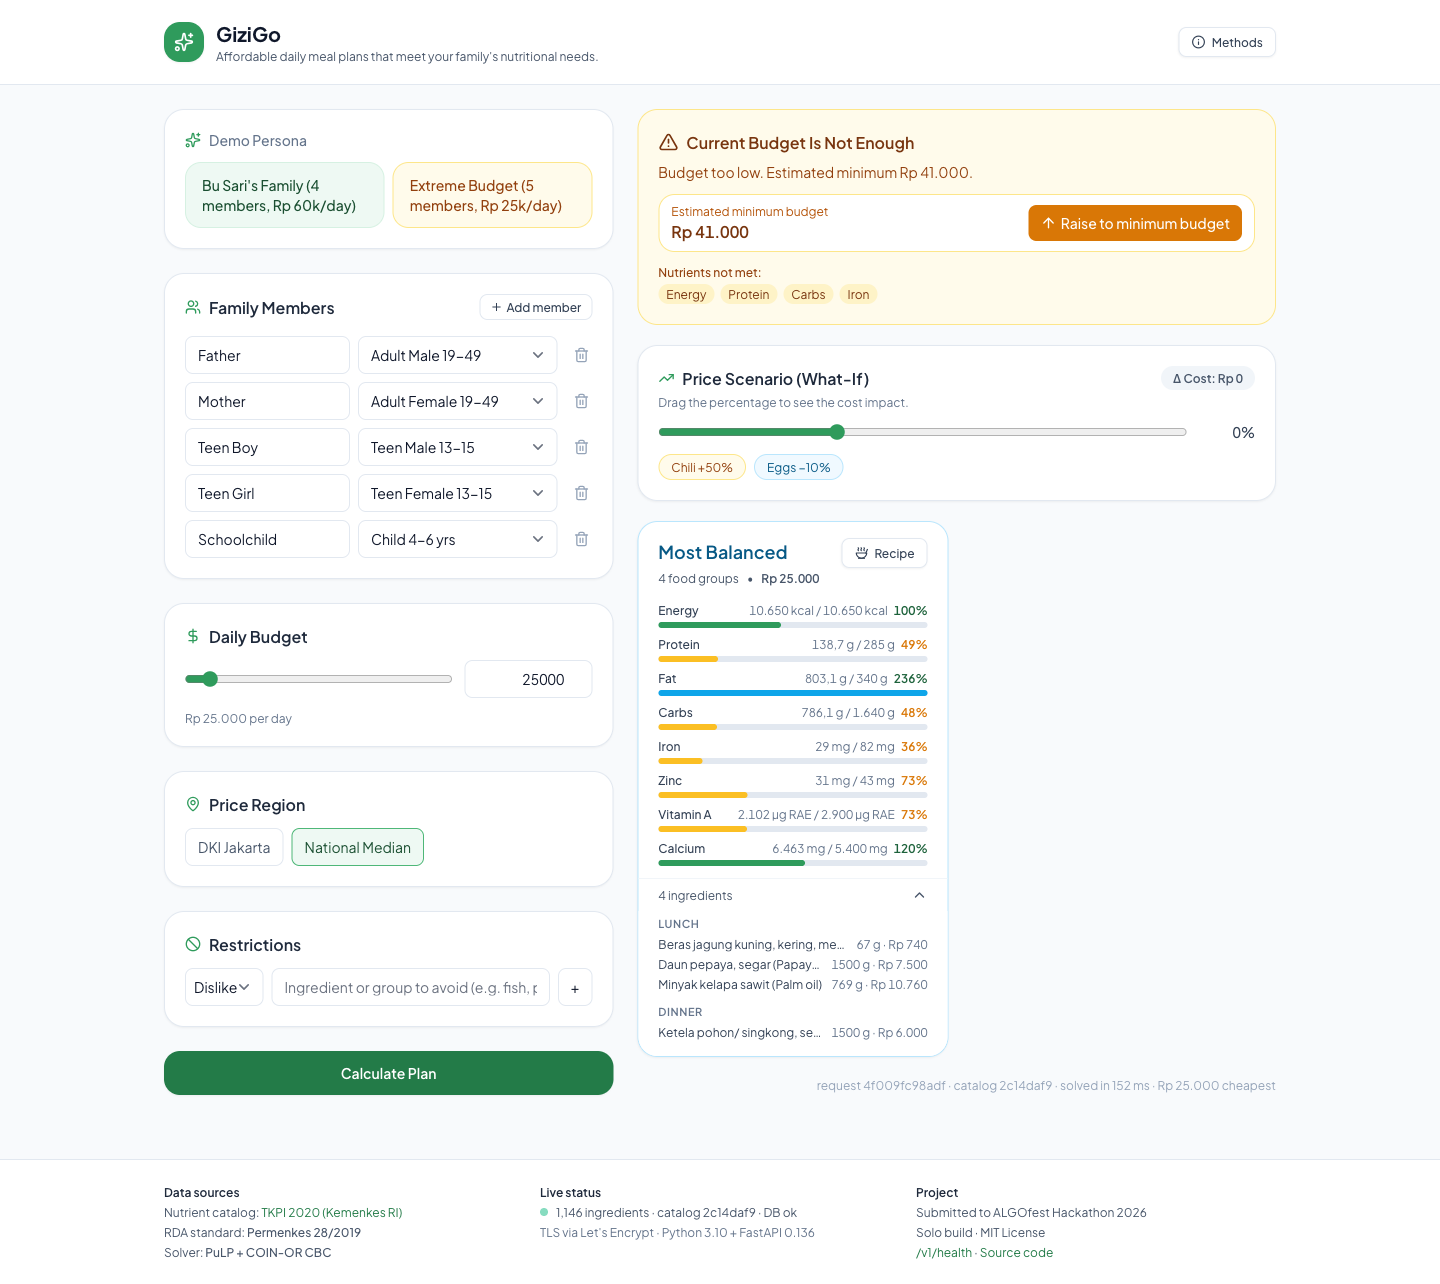
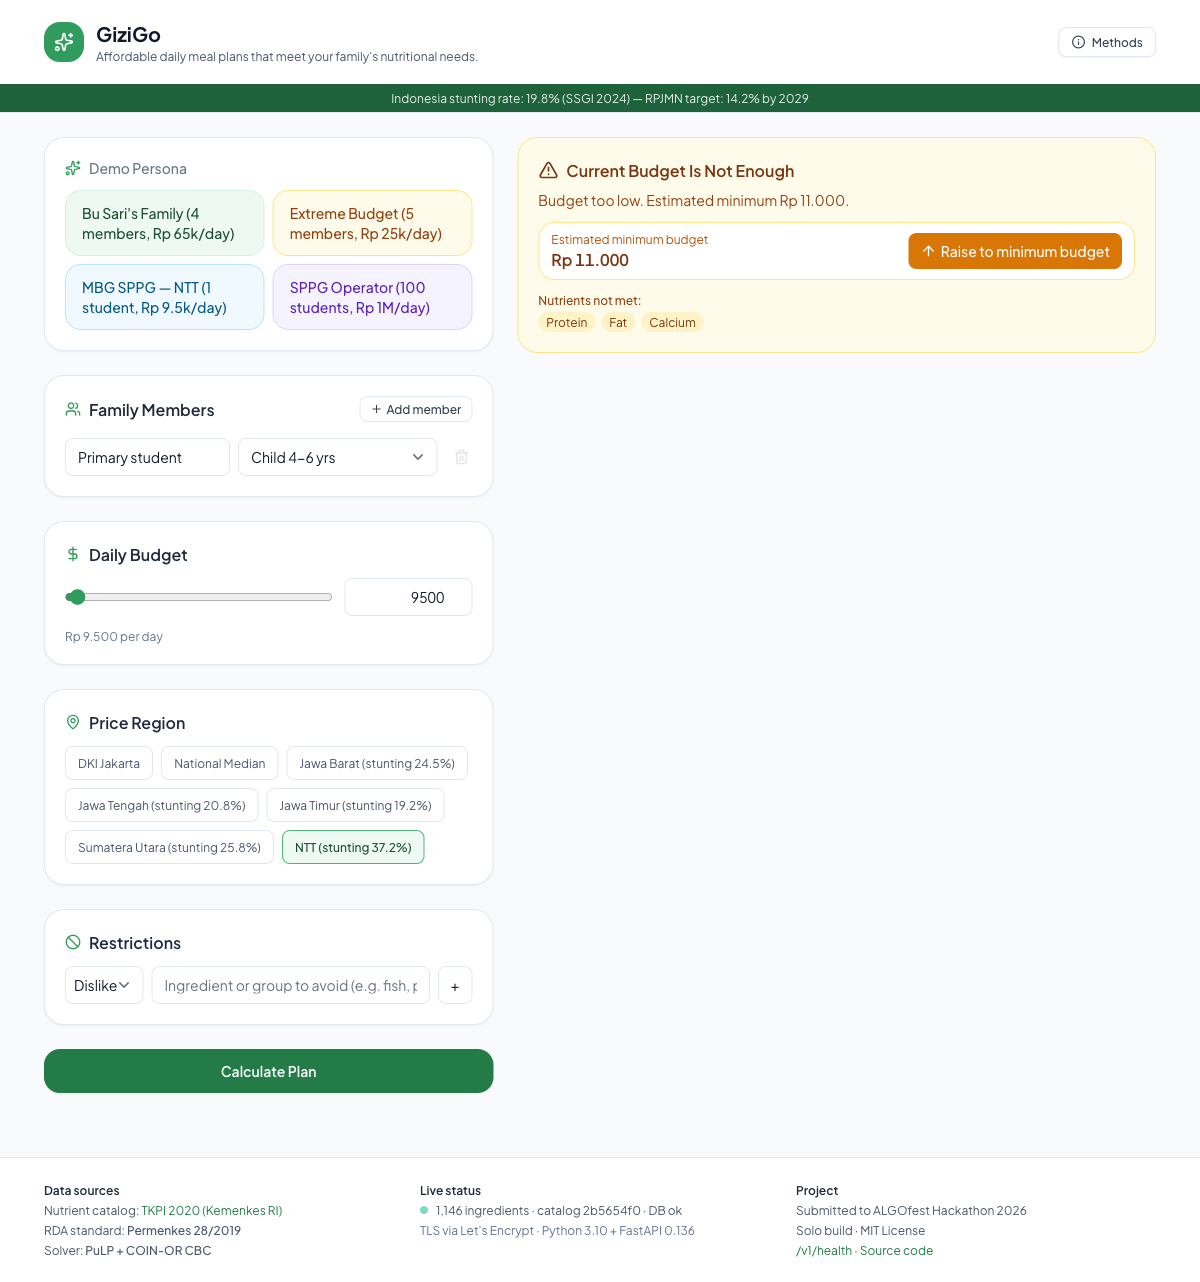
feat: MBG NTT infeasibility story + README/devpost/demo-script polish
1. MBG SPPG persona → NTT region, Rp 9,500/day
   - NTT: stunting 37.2%, prices ×1.18 vs national
   - At Rp 9,500 the LP is infeasible (min Rp 11,000)
   - Proves MBG Rp 10k envelope fails in Indonesia's highest-stunting province
   - Persona label updated: 'MBG SPPG — NTT (1 student, Rp 9.5k/day)'
   - Deep-link: /?persona=mbg_sppg

2. README.md major update:
   - 'Two demo personas' → 'Four demo personas' with full descriptions
   - MBG policy section rewritten: national vs NTT comparison table
   - Province inequality framing: 7 regions, stunting rates, price multipliers
   - Price shock presets documented (5 real-world scenarios)
   - SSGI 2024 numbers throughout (19.8%, target 14.2% by 2029)

3. docs/devpost-submission.md updated:
   - Elevator pitch reflects 4 personas, 7 provinces, 5 shock presets
   - MBG NTT infeasibility as the headline policy finding
   - SPPG Operator + CSV export mentioned

4. docs/demo-script.md rewritten (6 shots, 3 minutes):
   - Shot 1: stunting banner hook
   - Shot 2: Bu Sari 3 radar charts
   - Shot 3: price shock presets (Natal 2025 + El Niño)
   - Shot 4: MBG NTT infeasibility (the key policy moment)
   - Shot 5: SPPG Operator + CSV download
   - Shot 6: architecture close

5. docs/screenshots/03-infeasibility.png refreshed:
   - Shows stunting banner, NTT selected, min Rp 11,000, 4-persona grid

Live: https://gizigo.jmola.my.id/?persona=mbg_sppg

diff --git a/apps/web/src/data/personas.ts b/apps/web/src/data/personas.ts
@@ -32,8 +32,8 @@ export const PERSONAS: Record<PersonaId, OptimizeRequest> = {
     members: [
       { member_id: "m1", label: "Primary student", akg_category: "child_4_6" },
     ],
-    daily_budget_idr: 12000,
-    region: "national_baseline",
+    daily_budget_idr: 9500,
+    region: "nusa_tenggara_timur",
     restrictions: [],
     plan_types: ["cheapest", "balanced", "diverse"],
   },

diff --git a/apps/web/src/copy/id.ts b/apps/web/src/copy/id.ts
@@ -44,7 +44,7 @@ export const COPY = {
     options: {
       bu_sari: "Bu Sari's Family (4 members, Rp 65k/day)",
       anggaran_ekstrem: "Extreme Budget (5 members, Rp 25k/day)",
-      mbg_sppg: "MBG SPPG (1 student, Rp 12k/day)",
+      mbg_sppg: "MBG SPPG — NTT (1 student, Rp 9.5k/day)",
       sppg_operator: "SPPG Operator (100 students, Rp 1M/day)",
     },
   },

diff --git a/docs/demo-script.md b/docs/demo-script.md
@@ -1,8 +1,79 @@
-# Demo Script (≤ 3-minute video, captions-only)
+# Demo Script (3-minute video)
 
 Live URL: **https://gizigo.jmola.my.id**
-Code: **(repo URL — pasted into Devpost when public)**
+Code: **(repo URL)** — public on submission.
 
+Target: **2:30-3:00 minutes**. Aspect ratio: 1920×1080 H.264, ≤ 200 MB.
+
+---
+
+## Shot 1 — Hook (0:00 → 0:15)
+
+**On-screen**: Browser open to gizigo.jmola.my.id. Point to the dark green stunting banner.
+
+> "Indonesia's stunting rate is 19.8%. The government is spending Rp 71 trillion on free school meals. But is the budget actually enough? GiziGo answers that with a linear program — not a chatbot."
+
+---
+
+## Shot 2 — Bu Sari (feasible, 3 plans) (0:15 → 1:00)
+
+**Action**: Click **"Bu Sari's Family"** chip. Plans appear. Pan over the 3 radar charts.
+
+> "Bu Sari's family — 4 members, Rp 65k/day, DKI Jakarta. Three plans, three different objectives. Cheapest at Rp 60,534. Most Balanced at Rp 65,000 — the radar chart is rounder, iron overshoot pulled from 221% down to 185%. Most Varied at Rp 63,560 — 11 food groups, 14 ingredients. Three solvers, three optima, all in 52 milliseconds."
+
+---
+
+## Shot 3 — Price shock (1:00 → 1:30)
+
+**Action**: Click **"Chili +120% (Natal 2025)"** preset. Then **"Rice +15% (El Niño)"**.
+
+> "What happens when chili hits Rp 90k/kg — the actual price in December 2025? The LP re-solves in real time. Not a linear extrapolation — an actual new optimum. Now add a rice shock from El Niño. The system tells you exactly how much more you need to spend."
+
+---
+
+## Shot 4 — MBG NTT (infeasible) (1:30 → 2:15)
+
+**Action**: Click **"MBG SPPG — NTT"** chip. InfeasibilityPanel renders. Point to "NTT (stunting 37.2%)" region button. Click **"Raise to minimum budget"**.
+
+> "One student, Rp 9,500/day, Nusa Tenggara Timur — Indonesia's province with 37.2% stunting and prices 18% above the national median. The LP is infeasible. Minimum feasible budget: Rp 11,000 — above the MBG envelope of Rp 10k. The optimizer proves what the public debate has been asking: the budget is not enough in NTT. One tap raises to the minimum and the plans appear."
+
+---
+
+## Shot 5 — SPPG Operator + CSV (2:15 → 2:45)
+
+**Action**: Click **"SPPG Operator"** chip. Plans appear. Click the CSV download button.
+
+> "Switch to the SPPG operator view — 100 students, Rp 1 million/day. Cheapest plan: Rp 9,872 per student. Click download — a procurement CSV with ingredient IDs, grams, and costs, ready to paste into any procurement system. This is what BGN's 5,000 SPPG kitchens need."
+
+---
+
+## Shot 6 — Close (2:45 → 3:00)
+
+**On-screen**: Architecture diagram or code repo.
+
+> "Built solo in 36 hours. FastAPI, PuLP, CBC, React, live at gizigo.jmola.my.id. 1,146 ingredients from TKPI 2020, 14 AKG categories from Permenkes 28/2019, 7 provinces. The math is in the README. Thank you."
+
+---
+
+## Recording checklist
+
+- [ ] OBS at 1920×1080, 30 fps, H.264
+- [ ] Browser zoomed to 110%, bookmarks bar hidden, clean profile
+- [ ] DevTools closed, cursor visible with click highlight
+- [ ] Voiceover recorded separately (Audacity), mixed in post
+
+## Render
+
+```bash
+ffmpeg -i raw.mkv -c:v libx264 -preset slow -crf 22 -c:a aac -b:a 192k \
+       -movflags +faststart gizigo-demo.mp4
+```
+
+Target: **40-80 MB**. Upload to YouTube as **Unlisted**. Paste URL into Devpost.
+
+## Last-resort fallback
+
+If recording goes sideways, the code-side ship is still complete: live URL, README with screenshots, all docs. A static submission with no video will still hit *Innovation & Creativity*; the video boosts *Presentation and Documentation*.
 Target: 1920×1080 H.264, ≤ 200 MB, captions-only (no voiceover), runs muted on Devpost preview.
 
 ---

diff --git a/README.md b/README.md
@@ -67,37 +67,41 @@ A full mathematical formulation lives in [`docs/ilp-formulation.md`](docs/ilp-fo
 | **Best Social Impact** | Targets a 19.8% national stunting rate; UI in English with three demo personas anchored in real Indonesian household and program-operator profiles |
 | **Top 3 Grand** | Operations-research depth (ILP + sensitivity + bisection) plus a polished, end-to-end live deployment with concrete policy relevance to a Rp 71-trillion national program |
 
-## Two demo personas + one policy use-case
+## Four demo personas
 
-1. **Bu Sari's Family** — father (19-49), Bu Sari (lactating mother), child 5 yrs, toddler. Rp 60,000/day, region DKI Jakarta. Optimizer returns ~Rp 35,000 across 5+ food groups, all eight AKG nutrients ≥ 100 %.
-2. **Extreme Budget** — 5-member household, region National Median, Rp 25,000/day. Optimizer returns *infeasible*, surfaces the minimum estimated budget at Rp 41,000-63,000 (depending on persona shape), and lists the deficit nutrients (energy, protein, vitamin A, calcium).
-3. **MBG SPPG** — one primary-school student, Rp 12,000/day, region National Median. Models the per-portion budget of *Makan Bergizi Gratis* (Free Nutritious Meals), Indonesia's flagship Rp 71-trillion school-meal program launched January 2025 under Perpres 83/2024.
+1. **Bu Sari's Family** — father (19-49), Bu Sari (lactating mother), child 5 yrs, toddler. Rp 65,000/day, DKI Jakarta. Three differentiated plans: cheapest Rp 60,534 / balanced Rp 65,000 / diverse Rp 63,560 (11 food groups, 12 ingredients). All 9 AKG nutrients ≥ 100%.
+2. **Extreme Budget** — 5-member household, National Median, Rp 25,000/day. Infeasible — minimum Rp 68,000, deficits: energy, protein, vitamin A, calcium.
+3. **MBG SPPG — NTT** — one primary-school student, Rp 9,500/day, **Nusa Tenggara Timur** (stunting 37.2%, prices 18% above national median due to logistics). **Infeasible** — minimum Rp 11,000. This is the key policy finding: the Rp 10k MBG envelope is *not sufficient* in Indonesia's highest-stunting province.
+4. **SPPG Operator** — one representative student, Rp 1,000,000/day (= Rp 10k × 100 portions). Models a BGN SPPG kitchen procuring for 100 students. Cheapest plan Rp 9,872/student — Rp 128 headroom from the Rp 10k envelope.
 
-All three personas are baked into the UI as one-click chips so the judge can reproduce them in 2 seconds. They also have **deep-link URLs** that auto-load and auto-calculate:
+All four personas are one-click chips with **deep-link URLs** that auto-load and auto-calculate:
 
 - https://gizigo.jmola.my.id/?persona=bu_sari
 - https://gizigo.jmola.my.id/?persona=anggaran_ekstrem
 - https://gizigo.jmola.my.id/?persona=mbg_sppg
+- https://gizigo.jmola.my.id/?persona=sppg_operator
 
-## Policy implication: Makan Bergizi Gratis (MBG)
+## Policy implication: Makan Bergizi Gratis (MBG) + Province Inequality
 
-The MBG program targets ~82.9 million beneficiaries by 2029 with a per-portion budget reported in the press at **Rp 10,000-15,000**. Public debate has questioned whether that envelope is sufficient to meet a child's daily nutritional needs.
+The MBG program (Perpres 83/2024, Rp 71T budget) targets ~82.9 million beneficiaries by 2029 with a per-portion budget of **Rp 10,000-15,000**. Public debate has questioned whether that envelope is sufficient.
 
-GiziGo answers that question quantitatively. For a single primary-school child (`child_4_6` AKG category) using national-median prices, the optimizer reports:
+GiziGo answers this with two lenses:
 
-| Plan | Cost | Food groups | Notes |
+**National median**: At Rp 9,872/student, the cheapest AKG-compliant plan leaves only Rp 128-3,000 headroom from the Rp 10-12k envelope. Feasible — but barely.
+
+**NTT (stunting 37.2%, prices ×1.18)**: At Rp 9,500/student, the LP is **infeasible**. Minimum feasible budget: Rp 11,000. The MBG envelope of Rp 10k is not sufficient in Indonesia's highest-stunting province. The optimizer surfaces exactly which nutrients are short and by how much.
+
+**Price shock sensitivity**: Click "Chili +120% (Natal 2025)" — the actual peak price recorded in December 2025 (Rp 80-90k/kg). The LP re-solves in 100ms and shows the new cost. Click "Rice +15% (El Niño)" to model a drought scenario. These are not linear extrapolations — they are actual re-optimisations.
+
+**7 regions available**: DKI Jakarta, National Median, Jawa Barat (24.5%), Jawa Tengah (20.8%), Jawa Timur (19.2%), Sumatera Utara (25.8%), NTT (37.2%). Each region has its own price table reflecting logistics and distribution costs. The stunting rate is shown on each region button so the user understands the context.
+
+| Plan | Cost (NTT) | Cost (National) | Δ |
 |---|---|---|---|
-| Cheapest | **Rp 9,472** | 5 | Pure cost LP. AKG met, iron 200%+ from concentration on cheap protein |
-| Most Balanced | **Rp 10,827** | 5 | Penalises nutrient over-shoot beyond 130% RDA — flatter achievement profile |
-| Most Varied | **Rp 9,945** | **6** | MIP that maximises distinct food groups within +5% cost headroom |
+| Cheapest | Infeasible at Rp 9.5k | Rp 9,872 | — |
+| Most Balanced | Infeasible at Rp 9.5k | Rp 11,290 | — |
+| Most Varied | Infeasible at Rp 9.5k | Rp 10,366 | — |
 
-**The headline finding**: the MBG per-portion budget of Rp 10-12k has only ~Rp 500-3,000 of headroom over the optimizer-derived AKG floor of Rp 9,472 for primary-age children. That is much narrower than press estimates and matches the public concern that the budget is *just* sufficient when procurement is optimized — and infeasible otherwise.
-
-For Bu Sari's family at Rp 65k/day, the same three-plan output produces *visibly different* meals: Cheapest Rp 60,534 / 7 groups / 9 ingredients, Most Balanced Rp 65,000 / 7 groups / 7 ingredients (over-shoot smoothed), Most Varied Rp 63,560 / **11 groups, 12 ingredients**. Each plan card surfaces a 9-bar AKG achievement strip — including **fiber**, an under-tracked nutrient that the program-level MBG KPI itself does not surface. The AKG floor was bumped from Rp 60k to Rp 65k after fiber was added: at Rp 60k the LP became infeasible by Rp 533, exactly the kind of constraint a chatbot would not catch.
-
-GiziGo can therefore serve SPPG (*Satuan Pelayanan Pemenuhan Gizi*, the program's local kitchen units) as a deterministic audit and procurement-planning layer:
-
-- Plug in the actual local prices each SPPG faces and verify that the menu they propose meets AKG.
+**The headline finding**: the MBG budget is sufficient at national-median prices but fails in NTT — Indonesia's province with the highest stunting rate. GiziGo is the audit layer that catches this before the kitchen does.
 - Plug in the budget envelope and let the optimizer return the cheapest AKG-compliant ingredient mix.
 - Use the sensitivity slider to plan against price shocks (chili, eggs, beef) before they hit operations.
 

diff --git a/docs/devpost-submission.md b/docs/devpost-submission.md
@@ -16,15 +16,19 @@ Turn every Rupiah into the most nutritious daily plate. ILP-grade meal optimisat
 
 Indonesia's under-five stunting rate is **19.8%** while the RPJMN 2024-2029 target is 14 %. The gap is rarely about knowledge — it's about turning a tight household budget into nutritionally sufficient meals on a given day, in a given region.
 
-**GiziGo answers that exact question** with the discipline of an Operations Research solver. Enter your family composition (toddler, school child, lactating mother, etc.), a daily budget, your region, and any dietary restrictions. Within a second, the system returns three optimal plans:
+**GiziGo answers that exact question** with the discipline of an Operations Research solver. Enter your family composition (toddler, school child, lactating mother, etc.), a daily budget, your **province** (7 regions including the 5 highest-stunting provinces), and any dietary restrictions. Within a second, the system returns three optimal plans:
 
 - **Cheapest** — pure cost minimisation under all nine tracked AKG nutrients (energy, protein, fat, carbohydrate, **fiber**, iron, zinc, vitamin A, calcium).
-- **Most Balanced** — cost plus a slack penalty so AKGs are met as evenly as possible.
-- **Most Varied** — an iterative-substitution heuristic that maximises distinct food groups while staying near optimal.
+- **Most Balanced** — LP with over-shoot penalty so nutrients are met as evenly as possible (no single nutrient at 300%+ while others barely clear the floor).
+- **Most Varied** — a proper MIP that maximises distinct food groups within 5% cost headroom.
 
-When the budget cannot meet AKG, GiziGo runs a **bisection search on the budget** to surface the *minimum feasible budget* and the nutrient deficits, with a single CTA that raises to the minimum and re-runs the optimiser. A **sensitivity-analysis slider** re-solves the LP under perturbed prices in real time — slide chili up 50 %, watch the *actual new optimum* (not a linear extrapolation) appear.
+When the budget cannot meet AKG, GiziGo runs a **bisection search on the budget** to surface the *minimum feasible budget* and the nutrient deficits, with a single CTA that raises to the minimum and re-runs the optimiser. A **sensitivity-analysis slider** re-solves the LP under perturbed prices in real time — five presets model real commodity shocks: Chili +120% (Natal 2025 actual peak), Rice +15% (El Niño), Eggs +25% (Lebaran 2026).
 
-The UI is in English for the judges; persona names retain their Indonesian honorifics ("Bu Sari", "MBG SPPG") as proper nouns. The three demo personas anchor the system in real Indonesian use-cases — a household-budget family, an extreme-budget infeasibility flow, and the **MBG SPPG** persona that models the per-portion budget of *Makan Bergizi Gratis*, Indonesia's flagship Rp 71-trillion school-meal program launched January 2025 under Perpres 83/2024. The optimizer answers a question the program is being publicly debated on: *is the per-portion budget enough to meet a child's daily AKG?* The 1,146-ingredient nutrient catalogue comes from an idempotent scrape of panganku.org (the Kemenkes-affiliated re-publisher of TKPI 2020). AKG values come from Permenkes 28/2019. Retail prices come from infopangan.jakarta.go.id and PIHPS Bank Indonesia. Everything is committed to the repo for reproducibility — `make data` re-builds the entire dataset.
+The four demo personas anchor the system in real Indonesian use-cases:
+1. **Bu Sari's Family** — household budget, DKI Jakarta, 3 differentiated plans
+2. **Extreme Budget** — infeasibility flow, minimum budget surfaced
+3. **MBG SPPG — NTT** — one student, Rp 9,500/day, **Nusa Tenggara Timur** (stunting 37.2%, prices 18% above national). **Infeasible** — minimum Rp 11,000. The MBG Rp 10k envelope fails in Indonesia's highest-stunting province.
+4. **SPPG Operator** — 100-student institutional procurement at Rp 10k/portion, CSV export for procurement systems
 
 ## What it does
 